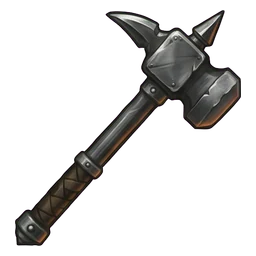
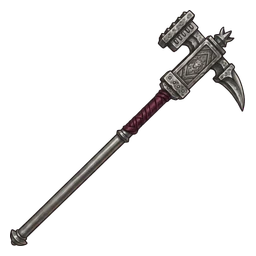
Esya ikon: warhammer duzeltme-10'dan

Changed region(s): [[0.0312, 0.0312, 0.9688, 0.9688]]

diff --git a/src/dungeondex/esyaIkon.test.ts b/src/dungeondex/esyaIkon.test.ts
@@ -71,6 +71,11 @@ describe('Eşya ikon hattı', () => {
     expect(b.cikti.get('ring-of-resistance-fire')).toMatchObject({ sayfa: 'f' });
     expect(b.kayitsiz).toEqual(['shield']);
   });
+  it('warhammer: son kaynağı duzeltme-10 (duzeltme-09 #2 boş)', () => {
+    const p = plan(manifest, () => true);
+    expect(p.son.get('warhammer')).toMatchObject({ sayfa: 'duzeltme-10', hucre: 1 });
+    expect(manifest.sayfalar.find((s) => s.dosya === 'duzeltme-09.jpg')!.ogeler[1]).toBeNull();
+  });
   it('manifest: glif sayfaları yoksayılır; her sayfanın öğesi hücre sayısını aşmaz; public/esya yalnız bağlanan oyun kayıtları', () => {
     expect(manifest.yoksay).toEqual(expect.arrayContaining(['glif-1', 'glif-2']));
     for (const s of manifest.sayfalar) expect(s.ogeler.length, s.dosya).toBeLessThanOrEqual(s.kolon * s.satir);
@@ -100,11 +105,12 @@ describe('Eşya ikon hattı', () => {
         });
       }
       if (HAM.has('duzeltme-09.jpg')) {
-        for (const id of ['dagger', 'warhammer', 'spyglass', 'potion-of-healing', 'potion-of-greater-healing', 'potion-of-superior-healing', 'potion-of-supreme-healing']) {
+        for (const id of ['dagger', 'spyglass', 'potion-of-healing', 'potion-of-greater-healing', 'potion-of-superior-healing', 'potion-of-supreme-healing']) {
           expect(cikti.get(id)?.sayfa, id).toBe('duzeltme-09');
           expect(ESYA.includes(`${id}.webp`) && KUCUK.has(`${id}.webp`), id).toBe(true);
         }
       }
+      if (HAM.has('duzeltme-10.jpg')) expect(cikti.get('warhammer')?.sayfa).toBe('duzeltme-10');
     }
     for (const f of ESYA) expect(oyun.has(f.replace(/\.webp$/, '')), f).toBe(true); // yalnız oyun kayıtları
   });

diff --git a/DECISIONS.md b/DECISIONS.md
@@ -13,7 +13,7 @@ Projede alınan içerik ve kural kararlarının kaydı. En yeni karar en üstte.
 - `ayniGorsel` hedefin sonraki sayfadaki kendi hücresini ezmez (potion-of-healing duzeltme-7'de).
 - **Kimlik bağlama (kullanıcı kararı, onaydan sonra):** varyant kimliği `<ana>/<varyant>` oyunun açılmış kaydına kuralla eşlenir (`esle`/`varyantEsle`): adaylar `srd` kimliği `<ana>` olan ve kimliği farklı kayıtlar, kimliğinde `<varyant>` tire sınırlı parça olarak geçen tek aday seçilir (15 eşlendi: iyileştirme iksirleri, dev gücü iksiri ve kemeri). Tek aday yoksa eşleşmez (64: oyunda açılmamış varyantlar, ör. dragon-scale-mail, figurine, ioun-stone, enstrüman), birden çoksa belirsiz (0); ikisi de bağlanmaz. SRD üst kimliği (11, ör. `armor-of-resistance`, `weapon-1-2-or-3`) kendi varyant ikonu olmayan bütün açılmış kayıtlara kopyalanır (`bagla`, 57 kayıt). Oyunda kaydı olmayan kimlikler (alet/kit, enstrüman, `shield`, `thieves-tools`) ve eşleşmeyen varyantlar "kayıtsız": ikon üretilir ama `public/esya/`'ya yazılmaz; tam çalıştırma artık kaydı olmayan eski çıktıları siler. İlk turda 449 kaydın 444'ü ikonluydu (ikonsuz 5 silah; aşağıdaki düzeltmeyle kapandı).
 - **Temizlik:** cam içinden yeşil zemin görünen iksirlerde (duzeltme-7 #1–3) manifest `tamDespill` despill'i bütün nesneye uygular (cam nötr gri; yeşil nesnede kullanılmaz). varyant-1#4 (supreme iksir, arkada silah sapı) ve donanim-05#3 (dürbün, arkada balta ağzı) nesneye bitişik, bileşen/kırpmayla ayrılmıyor: manifest `yenidenUretilecek`. varyant-1#1 duzeltme-7#1 ile ezildiği için çıktıda yok. hammer-of-thunderbolts parıltısı kaldı (kullanıcı kararı).
-- **Manifest düzeltmesi:** silah-1 #6 `mace`, #11 `light-crossbow`, silah-2 #3 `lance` bağlandı (hücreler temiz: nesne kendi hücresinde, kesik yok; paydaki komşu parçalar ayrı bileşen). silah-1 #5 boş kalır (light-hammer duzeltme-8'den). Yeni sayfa `duzeltme-09.jpg` (5 × 2; klasördeki gerçek ad sıfırlı) manifestte: 1 dagger, 2 warhammer, 6 spyglass, 7–10 dört iyileştirme iksiri; 3–5 atlanır. Son sayfa olduğu için varyant-1, duzeltme-7 ve donanim-05 #3'ü ezer. `tamDespill` dört iksirin oyun kimliğine bağlandı; duzeltme-09 iksirlerinin altın halesi yeşil zemin üstüne çizildiği için ayrıştırmadan sonra G ≈ R (sarı-yeşil) kalıyordu: `tamDespill` hücrelerinde yarı saydam hale pikselleri G ≤ (R + B) / 2 ile ısıtılır, opak kısımlar (cam, mantar, altın metal) G ≤ max(R, B). Sonuç: hale amber/altın, yeşil baskın piksel 0–4 / ≈4–5 bin; açık zeminde haki-altın okunur. Rapor, ezilen `yenidenUretilecek` hücresini "çözüldü" diye yazar (varyant-1#4 ve donanim-05#3 duzeltme-09 ile çözüldü). Sonuç: 449/449 eşya kaydı ikonlu. Test: ham sayfa adları `import.meta.glob` ile (görsel açılmaz); dosyası olan sayfa atlanmamalı ve her dolu hücresi son konum ya da ezilmiş olmalı, duzeltme-09 varken yedi kimliğin son konumu o sayfa.
+- **Manifest düzeltmesi:** silah-1 #6 `mace`, #11 `light-crossbow`, silah-2 #3 `lance` bağlandı (hücreler temiz: nesne kendi hücresinde, kesik yok; paydaki komşu parçalar ayrı bileşen). silah-1 #5 boş kalır (light-hammer duzeltme-8'den). Yeni sayfa `duzeltme-09.jpg` (5 × 2; klasördeki gerçek ad sıfırlı) manifestte: 1 dagger, 2 warhammer, 6 spyglass, 7–10 dört iyileştirme iksiri; 3–5 atlanır. Son sayfa olduğu için varyant-1, duzeltme-7 ve donanim-05 #3'ü ezer. `tamDespill` dört iksirin oyun kimliğine bağlandı; duzeltme-09 iksirlerinin altın halesi yeşil zemin üstüne çizildiği için ayrıştırmadan sonra G ≈ R (sarı-yeşil) kalıyordu: `tamDespill` hücrelerinde yarı saydam hale pikselleri G ≤ (R + B) / 2 ile ısıtılır, opak kısımlar (cam, mantar, altın metal) G ≤ max(R, B). Sonuç: hale amber/altın, yeşil baskın piksel 0–4 / ≈4–5 bin; açık zeminde haki-altın okunur. Rapor, ezilen `yenidenUretilecek` hücresini "çözüldü" diye yazar (varyant-1#4 ve donanim-05#3 duzeltme-09 ile çözüldü). Sonuç: 449/449 eşya kaydı ikonlu. Warhammer `duzeltme-10.jpg`'den (1 × 1; duzeltme-09 #2 boş bırakıldı, o çizim istenen biçimde değildi); 96 px'te çekiç başı ≈ 25 px, tam silah görünümü korundu (baş tarafı kırpma önerisi kullanıcı kararında). Test: ham sayfa adları `import.meta.glob` ile (görsel açılmaz); dosyası olan sayfa atlanmamalı ve her dolu hücresi son konum ya da ezilmiş olmalı, duzeltme-09 varken yedi kimliğin son konumu o sayfa.
 - **Dungeondex vitrini:** eşya kaydında `public/esya/<kimlik>.webp` gösterilir (yoksa yer tutucu); canavar jetonuyla aynı yol.
 - `scripts/lib/gorsel-envanter.ts` kök yolu `fileURLToPath` ile (Windows'ta `new URL().pathname` `D:\D:\…` veriyordu; `npm run dd-gorsel` yerelde çalışmıyordu).
 - **Tam test notu:** `src/content/as2.test.ts` yerelde düşüyor ("Champion" ≠ "Gladiator"): ilgisiz, yerel `icerik/` eski (git dışı `icerik/ek-fighter.json` fikstürdeki yeni adı taşımıyor); dokunulmadı.

diff --git a/harita/belgeler/ESYA-IKON-RAPOR.md b/harita/belgeler/ESYA-IKON-RAPOR.md
@@ -11,9 +11,9 @@ Manifest `data/esya-ikon-sayfalar.json`, ham sayfalar `assets-ham/esya/` (depo d
 
 ## Özet
 
-- İşlenen sayfa: 39 (yoksayılan: `zirh-donanim`, `duzeltme-1`, `pilot`, `glif-1`, `glif-2`).
+- İşlenen sayfa: 40 (yoksayılan: `zirh-donanim`, `duzeltme-1`, `pilot`, `glif-1`, `glif-2`).
 - Oyun eşya kaydı: 449 (sihirli 319 + donanım 80 + silah 38 + zırh 12); ikonlu **449**, ikonsuz **0**.
-- `public/esya/`: yalnız oyun kayıtları, 449 × 256 px + 449 × 96 px, toplam **9.1 MB** (256 px 7384 kB, 96 px 1885 kB). Ana parçaya girmez.
+- `public/esya/`: yalnız oyun kayıtları, 449 × 256 px + 449 × 96 px, toplam **9.0 MB** (256 px 7381 kB, 96 px 1884 kB). Ana parçaya girmez.
 - Varyant eşlendi **15**, eşleşmeyen **64**, belirsiz **0**; SRD üst kimliği kopyası **11** kimlik → 57 kayıt; kayıtsız (yazılmadı) **89** (64 eşleşmeyen varyant + 25 diğer).
 - Ezilen hücre: 68. `ayniGorsel` uygulanamayan: potions-of-healing: kaynak kimliğin hücresi yok (potion-of-healing kopyalanmadı).
 - Tam despill (cam içi yeşil ton): `potion-of-healing`, `potion-of-greater-healing`, `potion-of-superior-healing`, `potion-of-supreme-healing`.
